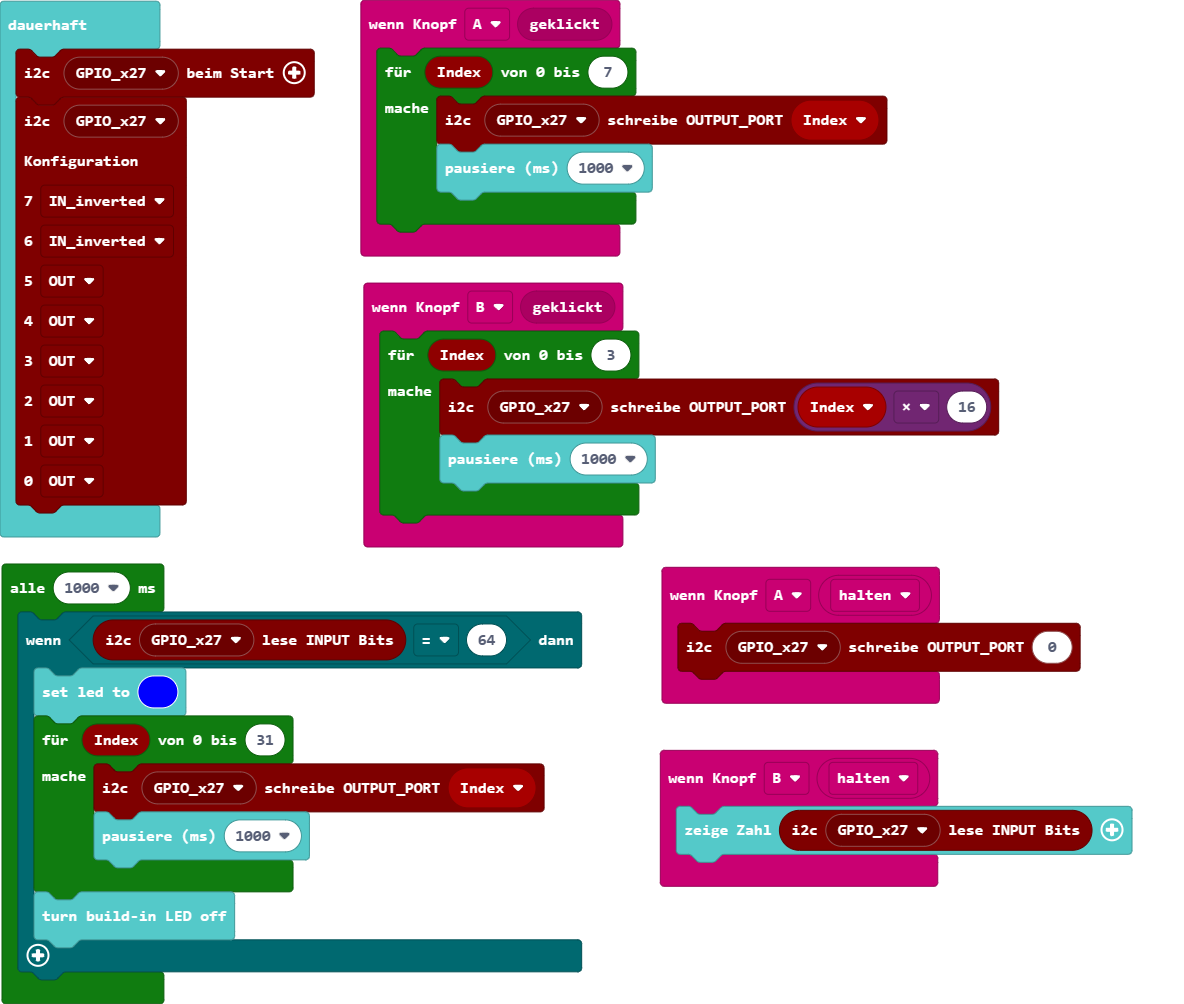
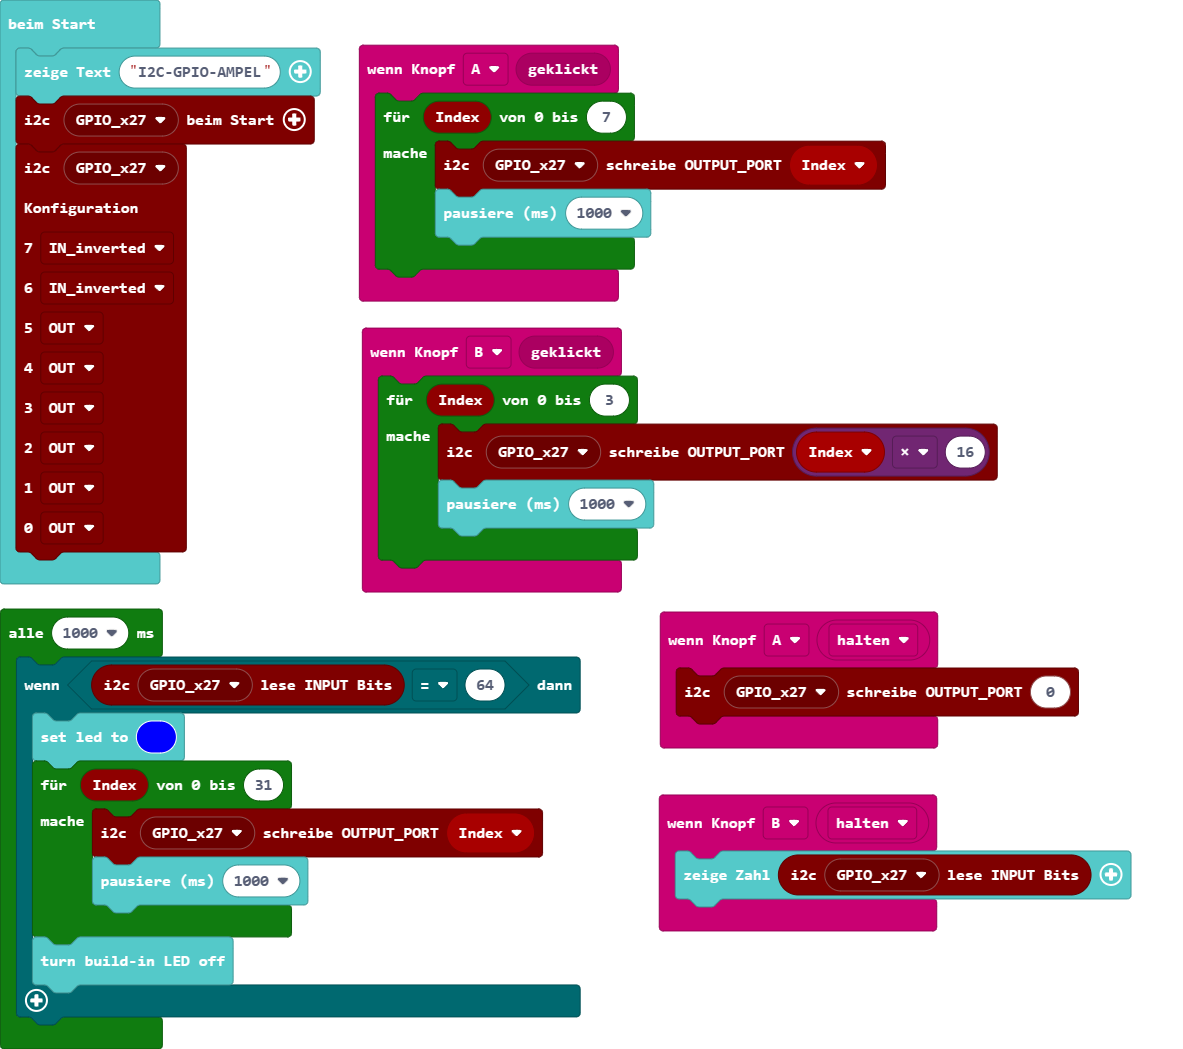
Aktualisiere main.blocks, main.ts

Changed region(s): [[0.0, 0.0, 0.8521, 0.988], [0.5478, 0.5558, 0.9738, 0.8954]]

diff --git a/main.ts b/main.ts
@@ -16,6 +16,19 @@ input.onButtonEvent(Button.A, ButtonEvent.Hold, function () {
 input.onButtonEvent(Button.B, ButtonEvent.Hold, function () {
     basic.showNumber(qwiicgpio.readINPUT_PORT(qwiicgpio.qwiicgpio_eADDR(qwiicgpio.eADDR.GPIO_x27)))
 })
+basic.showString("I2C-GPIO-AMPEL")
+qwiicgpio.beimStart(qwiicgpio.qwiicgpio_eADDR(qwiicgpio.eADDR.GPIO_x27))
+qwiicgpio.setMode(
+qwiicgpio.qwiicgpio_eADDR(qwiicgpio.eADDR.GPIO_x27),
+qwiicgpio.eIO.IN_inverted,
+qwiicgpio.eIO.IN_inverted,
+qwiicgpio.eIO.OUT,
+qwiicgpio.eIO.OUT,
+qwiicgpio.eIO.OUT,
+qwiicgpio.eIO.OUT,
+qwiicgpio.eIO.OUT,
+qwiicgpio.eIO.OUT
+)
 loops.everyInterval(1000, function () {
     if (qwiicgpio.readINPUT_PORT(qwiicgpio.qwiicgpio_eADDR(qwiicgpio.eADDR.GPIO_x27)) == 64) {
         basic.setLedColor(0x0000ff)
@@ -25,18 +38,4 @@ loops.everyInterval(1000, function () {
         }
         basic.turnRgbLedOff()
     }
-})
-basic.forever(function () {
-    qwiicgpio.beimStart(qwiicgpio.qwiicgpio_eADDR(qwiicgpio.eADDR.GPIO_x27))
-    qwiicgpio.setMode(
-    qwiicgpio.qwiicgpio_eADDR(qwiicgpio.eADDR.GPIO_x27),
-    qwiicgpio.eIO.IN_inverted,
-    qwiicgpio.eIO.IN_inverted,
-    qwiicgpio.eIO.OUT,
-    qwiicgpio.eIO.OUT,
-    qwiicgpio.eIO.OUT,
-    qwiicgpio.eIO.OUT,
-    qwiicgpio.eIO.OUT,
-    qwiicgpio.eIO.OUT
-    )
 })
